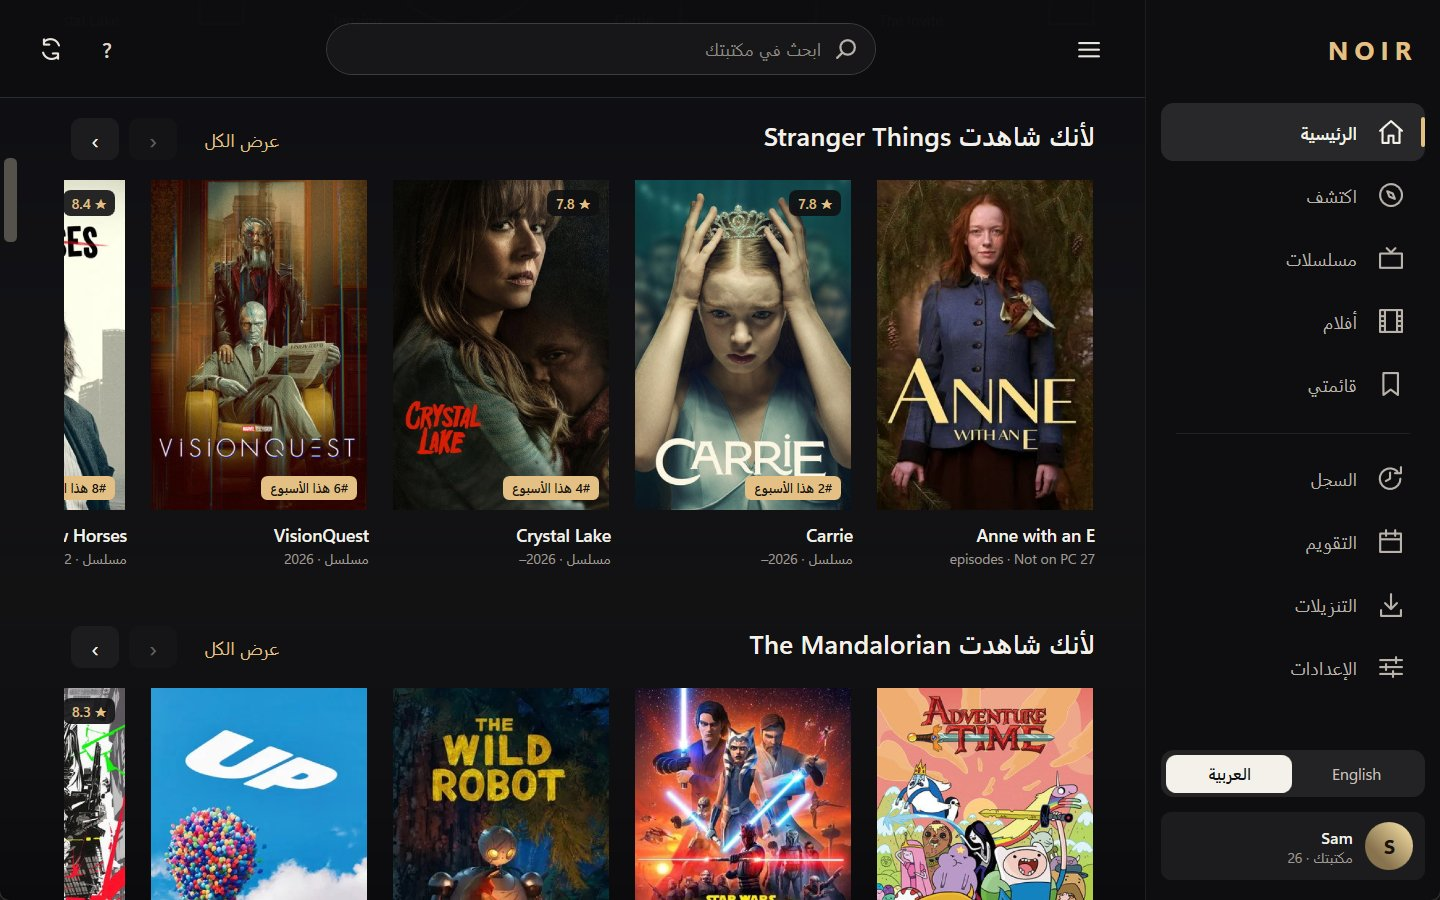
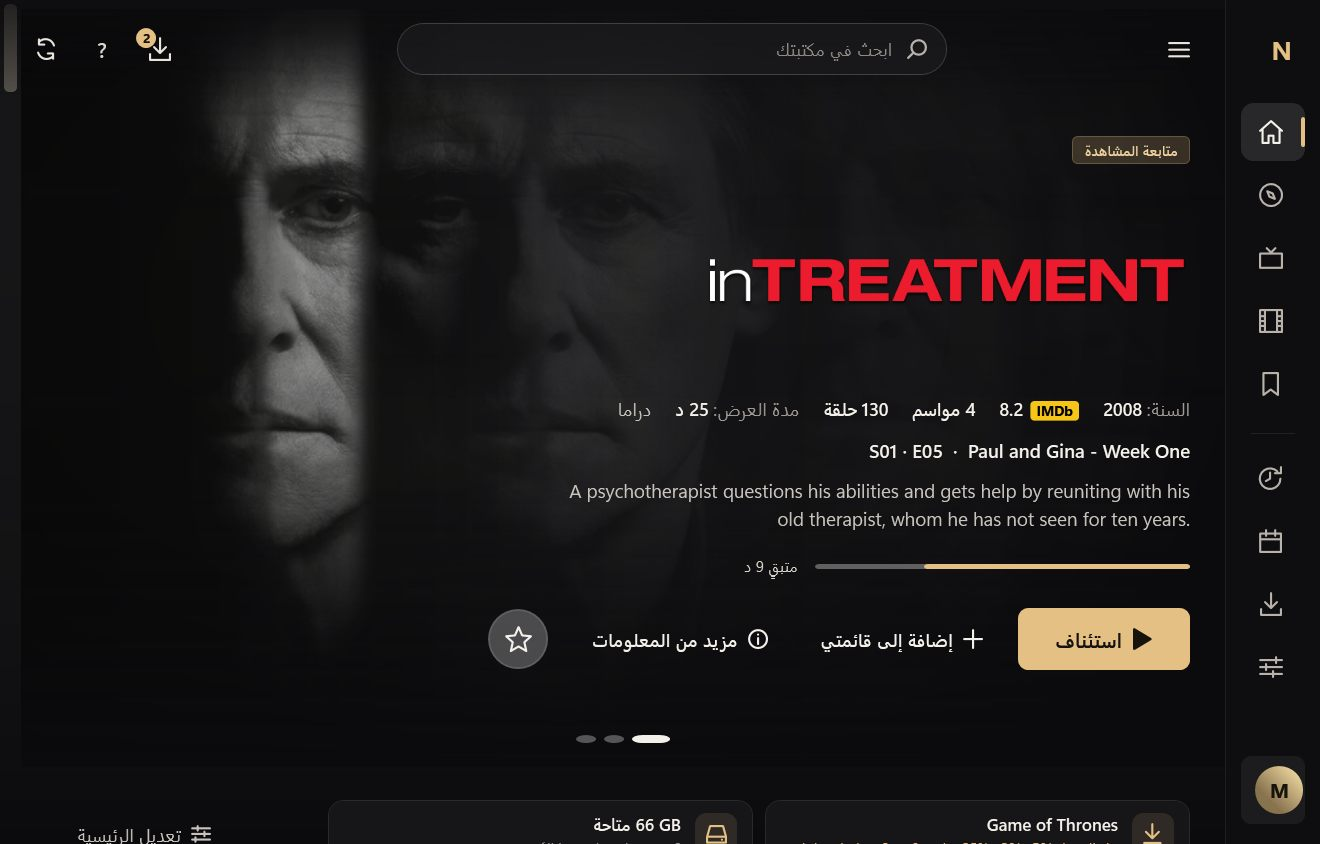
Readme: present the app by what it does, with current screenshots

diff --git a/README.md b/README.md
@@ -2,36 +2,52 @@
 
 **A place for everything you watch.**
 
-Settle into a film, pick up a series, or remember something you watched somewhere else.
-Noir brings your player, movie and TV library, and watch diary together on Windows
-and Android phones, with a Google TV / Android TV app for the sofa.
+Noir is a downloader, an organizer, a streamer and a library in one app. It finds and
+downloads what you want, files it into tidy folders, plays it, and keeps a record of
+everything you have watched, here or somewhere else. It runs on Windows and Android
+phones, with a Google TV / Android TV app for the sofa.
 
 [**Download Noir**](https://github.com/Yaqoubj/Noir/releases/latest) · Windows 0.18.0 · Android 0.11.0 · free and open source
 
-![Noir Home, with cinematic artwork and Continue Watching](docs/screenshots/home.jpg)
+![Noir Home, with cinematic artwork, Continue Watching and a status strip](docs/screenshots/home.jpg)
 
-## What's new in 0.18.0
+Home shows all four roles. A status strip under the hero lists what Noir is doing or has
+waiting: downloads in progress, the next episode airing, free space, a site that stopped
+syncing, and files to tidy. Your own rows come first.
 
-Windows 0.18.0 and Android 0.11.0.
+## Download what you want
 
-- **Downloads without a debrid account.** A built-in torrent engine on PC and phone
-  picks healthy releases, shows peers and speed, and switches release if one stalls.
-- **Whole seasons or shows at once**, with quality and size limits. Episodes you
-  already have are skipped.
-- **A tidier library.** The organizer renames and files videos into show and season
-  folders, with a preview and Undo, and can work on new files automatically.
-  **Free up space** finds empty folders, samples, leftovers and duplicate copies.
-- **Automatic downloading and removal** with rules you choose, and overrides per show.
-- **Subtitles from more sources**, with faster syncing that also fixes frame-rate
-  mismatches.
-- **Watch sync for big histories.** Trakt and Serializd marks go newest first, and
-  the phone can send its own marks.
-- **Mark watched in Stremio** (off by default), and **Open in Harbor** from any title.
-- **Faster with big libraries**: start-up, importing, restoring and History stats.
-- **A clearer Home, Downloads, History and Discover** on PC and phone, a drawn icon
-  set, and a full Arabic pass on PC, phone and TV.
+Noir downloads on PC and phone. A built-in torrent engine works without a debrid
+account: it picks healthy releases, shows peers and speed, switches to another release
+if one stalls, and shares back for a while afterwards. Interrupted downloads continue by
+themselves; ones you paused stay paused. Streaming and downloads can also use your
+configured sources, including AIOStreams, TorBox and Real-Debrid, with each service's own
+connection and account requirements.
 
-## Make yourself comfortable
+![Downloads, with the queue, a progress bar and the three tabs](docs/screenshots/downloads.jpg)
+
+- Download this episode, this season, the whole show or the next few episodes, with
+  quality and size limits. Episodes you already have are skipped.
+- Downloads has three tabs with live numbers: Queue, On this PC (On this phone on
+  Android) and Keep ready.
+- Save movies and episodes for offline viewing, with downloads managed inside Noir.
+
+## Keep it tidy
+
+The organizer renames your videos and files them into show and season folders. You see
+a preview first, choose which shows to include, set naming options, and can Undo.
+It can also organize new files automatically.
+
+![On this PC, with Organize files and Free up space](docs/screenshots/downloads-organize.jpg)
+
+- **Free up space** finds empty folders, sample clips, leftover release files and
+  duplicate copies. It keeps the larger copy and moves your progress to it. Program
+  files are listed but never removed.
+- **Automatic downloading and removal** follow rules you choose: how far ahead to
+  download, which shows, when downloads may run, and if and when watched files are
+  removed. Each show can have its own override.
+
+## Stream and watch
 
 Point Noir at your movie and show folders on Windows, or stream through your own
 AIOStreams connection. VLC powers playback on PC, phone and TV, with saved resume
@@ -40,14 +56,11 @@ points that let you leave an episode halfway through and come back to it.
 ![Noir's player with the next episode waiting](docs/screenshots/player.jpg)
 
 - Choose audio tracks and subtitles, including English and Arabic subtitle downloads
-  when available.
+  when available. Subtitles come from several sources, show where each one came from,
+  and sync quickly, including fixes for frame-rate mismatches.
 - Skip known intros, recaps and credits; let Up Next take you into the following
   episode, or cancel it.
-- Save movies and episodes for offline viewing on PC and phone, with downloads
-  managed inside Noir. A built-in torrent engine downloads without a debrid account.
-
-Streaming and downloads use your configured sources, including AIOStreams, TorBox
-and Real-Debrid, with each service's own connection and account requirements.
+- Open any title in Harbor from its page.
 
 ## A library worth browsing
 
@@ -57,11 +70,17 @@ and collections you put together yourself.
 
 ![A show in Noir, with seasons and episode details](docs/screenshots/show.jpg)
 
-Home mixes **Continue Watching** with recommendations drawn from what you watch,
-rate and favourite. Discover lets you search movies and shows beyond your library;
-you can save a title without downloading it or marking it watched.
+Home mixes **Continue Watching**, **Keep ready** and your lists with recommendations
+drawn from what you watch, rate and favourite.
 
 ![Posters and recommendations on Home](docs/screenshots/home-rows.jpg)
+
+Discover lets you search movies and shows beyond your library. On PC, hover a poster to
+**Stream**, **Download** or add it to **My List**; the spotlight offers the same. On the
+phone, a title page has one Stream button and episode rows with stream and download
+icons. You can also save a title without downloading it or marking it watched.
+
+![Discover, with Stream, Download and My List on each poster](docs/screenshots/discover.jpg)
 
 - Find something through popular picks, genres, or suggestions based on your favourites.
 - Let smart lists surface unfinished shows, comfort rewatches and shorter choices
@@ -98,10 +117,12 @@ without having to remember every episode you've seen.
   Simkl backups, or a CSV of your own.
 - **Connect your other libraries:** pull watched titles from Stremio, Plex,
   Jellyfin, Emby or Kodi; Nuvio can exchange watched status in both directions.
-  Noir can also mark what you finish as watched in Stremio, which is off by default.
+  Noir can also mark what you finish as watched in Stremio, which is off by default
+  and only changes the watched state.
 - **Review file imports before adding them.** Re-imports skip duplicate viewings,
   and an import can be undone.
 
+Trakt and Serializd marks sync newest first, and the phone can send its own marks.
 Imports and exports are available on Windows and phone; Kodi imports on the phone
 use a paired PC. Export your diary as Noir CSV/JSON, Letterboxd CSV or Trakt JSON.
 
@@ -116,8 +137,7 @@ ratings and My List with the linked PC profile.
 - **On your TV:** browse and play with the remote, using your own AIOStreams link
   or a paired PC.
 - **For later:** choose shows to **Keep ready**, with automatic episode downloads
-  within a storage budget you set on PC or phone. Rules set how far ahead to
-  download, when downloads may run, and when watched files are removed.
+  within a storage budget you set on PC or phone.
 
 Keep Noir running on the PC for local sync and PC-file streaming.
 The phone saves offline progress for the next connection; its own streams and
